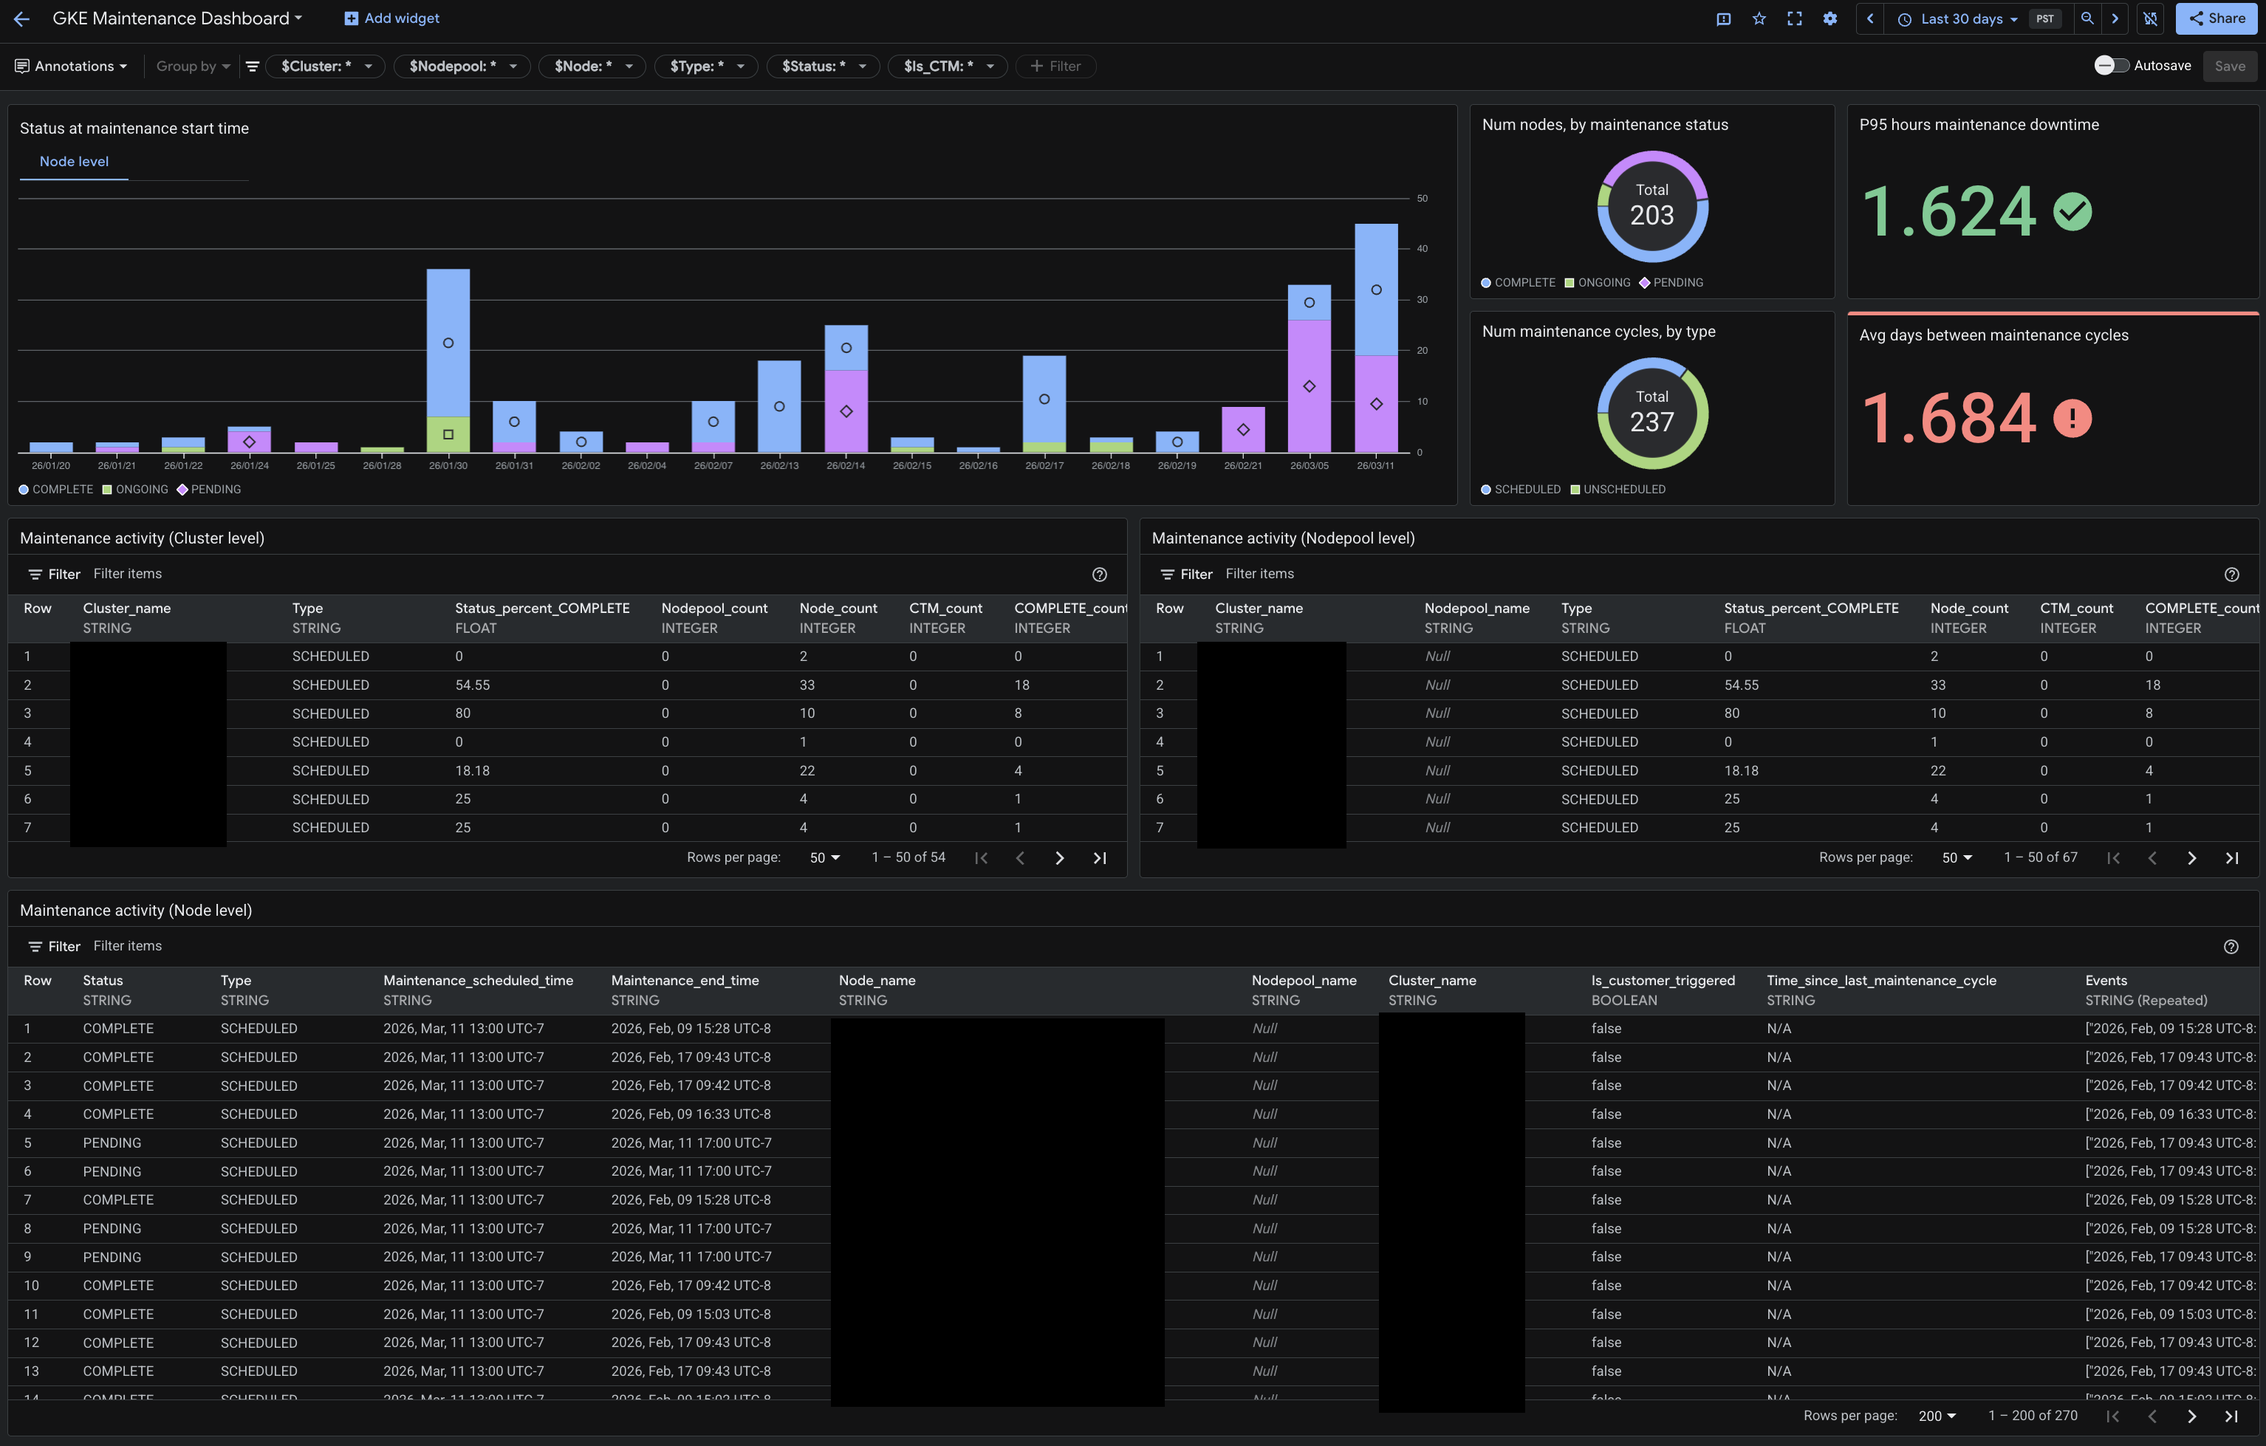
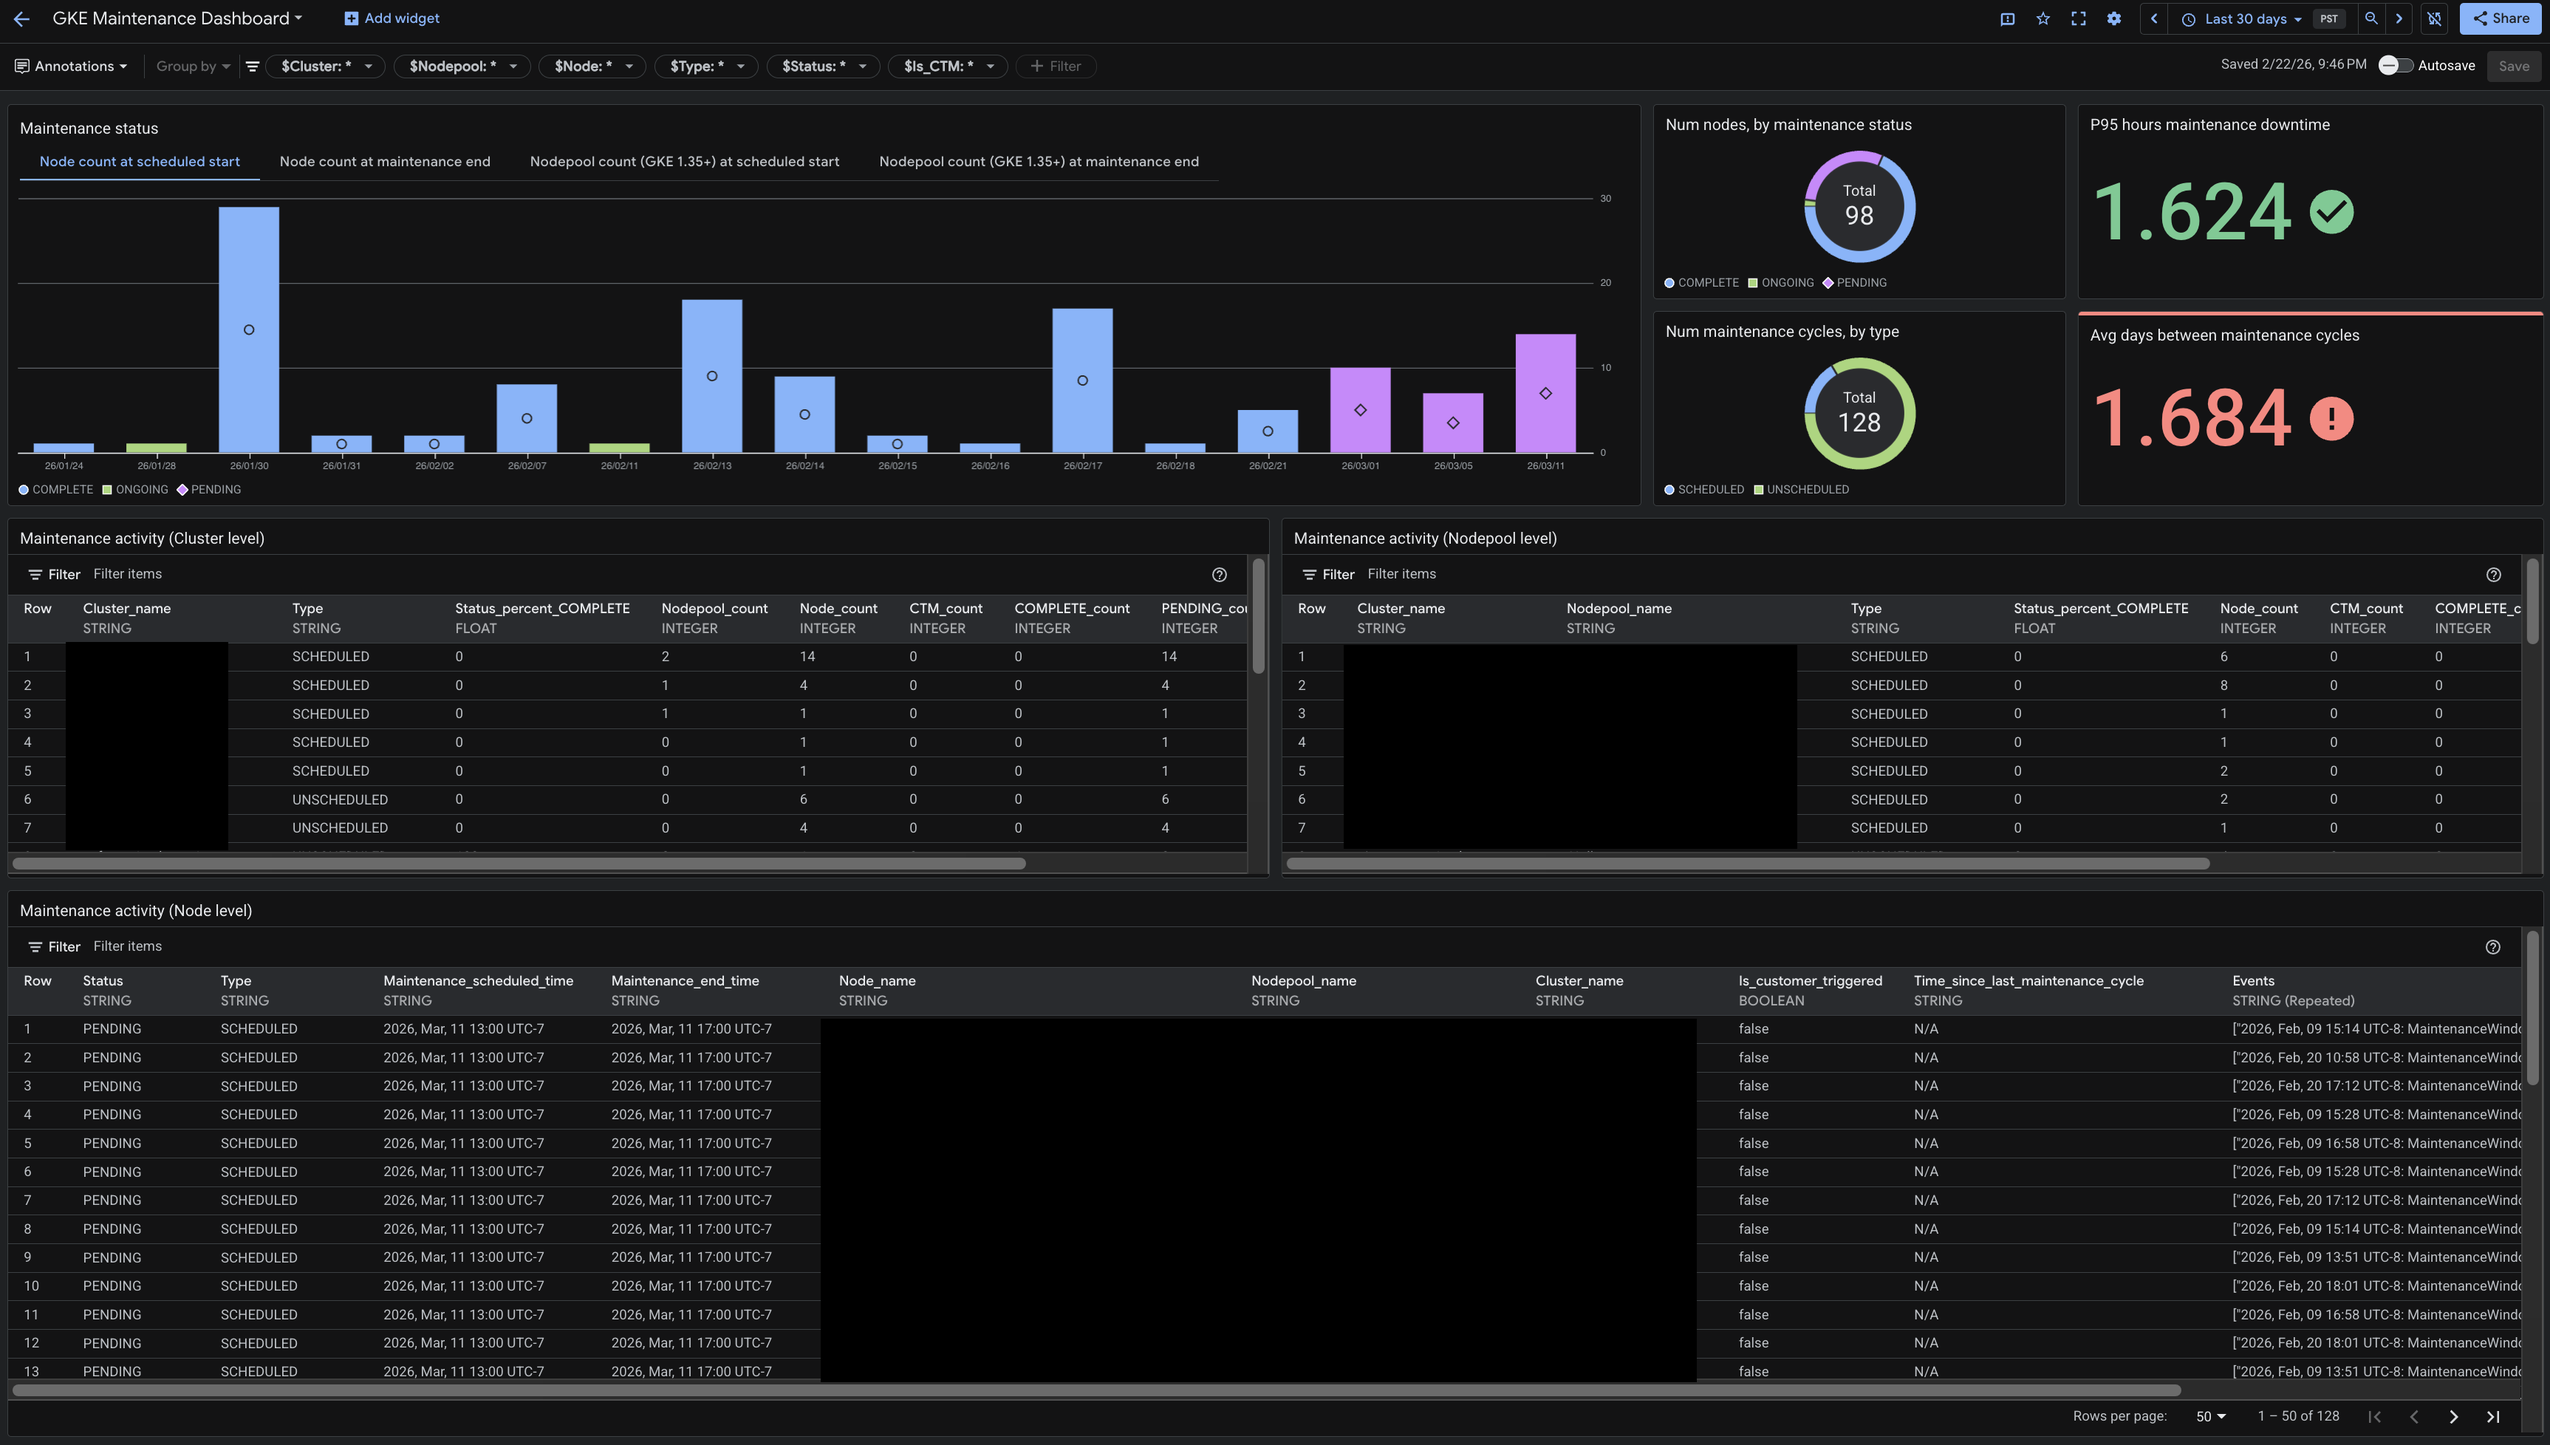
Update observability analytics, dashboard, and log sink query to filter out deleted nodes

diff --git a/dashboards/google-kubernetes-engine-ai/README.md b/dashboards/google-kubernetes-engine-ai/README.md
@@ -34,27 +34,47 @@ Then apply the following filter to the sink to filter the correct logs:
 
 <summary><i>Log Sink Filter</i></summary>
 
-```
+```sql
 (
-    -- for OnHostMaintenanceTerminate
+    -- for recreating certain 1.35+ maintenance events needed for the context of a node's maintenance status
     resource.type="k8s_container"
+    log_id("stderr")
     resource.labels.container_name="maintenance-handler"
-    jsonPayload.message:"Handling maintenance event with state"
-) OR (
-    -- for maintenance window updates
-    resource.type="k8s_container"
-    sourceLocation.file="gceTerminationHandler.go"
-    jsonPayload.message=~"Handling scheduled maintenance event with state:"
-) OR (
-    -- for all other events not tied to maintenance window (excluding deprecated <1.35 events)
-    jsonPayload.kind="Event"
-    jsonPayload.source.component="NodeTerminationHandler"
-    -jsonPayload.reason="NodeMaintenanceScheduled"
-    -jsonPayload.reason="MaintenanceStarted"
-    -jsonPayload.reason="NoPendingMaintenance"
+    (
+        -- for OnHostMaintenanceTerminate
+        jsonPayload.message=~"Handling maintenance event with state"
+        -jsonPayload.message="Handling maintenance event with state: \"NONE\""
+    )
+    OR 
+    (
+        -- for maintenance window updates
+        jsonPayload.message=~"Handling scheduled maintenance event with state:"
+        -jsonPayload.message="Handling scheduled maintenance event with state: \"\\\"NONE\\\"\""
+    )
 )
--jsonPayload.message="Handling scheduled maintenance event with state: \"\\\"NONE\\\"\""
--jsonPayload.message="Handling maintenance event with state: \"NONE\""
+OR 
+(
+    -- for maintenance events emitted at the node-level
+    resource.type="k8s_node"
+    log_id("events")
+    (
+        -- for information on deleted nodes, which are excluded from dashboard
+        jsonPayload.reportingComponent="cloud-node-lifecycle-controller"
+        jsonPayload.reason="DeletingNode"
+    )
+    OR
+    (
+        -- for information on recreated nodes, which can indicate the return of a deleted node that needed maintenance
+        jsonPayload.reportingComponent="node-controller"
+        jsonPayload.reason="RegisteredNode"
+    )
+    OR
+    (
+        -- for all other maintenance handler events (excluding deprecated <1.35 events)
+        jsonPayload.source.component="NodeTerminationHandler"
+        -jsonPayload.reason=("NodeMaintenanceScheduled" OR "MaintenanceStarted" OR "NoPendingMaintenance")
+    )
+)
 ```
 
 </details>
@@ -82,12 +102,12 @@ WITH RawLogs AS (
   FROM
     `@__project_id.global._Default._Default`
   WHERE
-    -- resource.type is usually a STRING, but JSON_VALUE(resource.labels.container_name) is required
     resource.type = 'k8s_container' 
     AND JSON_VALUE(resource.labels.container_name) = 'maintenance-handler'
     AND (
-      JSON_VALUE(json_payload.message) LIKE 'Handling scheduled maintenance event with state:%'
-      OR JSON_VALUE(json_payload.message) LIKE 'Handling maintenance event with state:%'
+      (JSON_VALUE(json_payload.message) LIKE 'Handling scheduled maintenance event with state:%' AND JSON_VALUE(json_payload.message) NOT LIKE '%"NONE"%')
+      OR 
+      (JSON_VALUE(json_payload.message) LIKE 'Handling maintenance event with state:%' AND JSON_VALUE(json_payload.message) NOT LIKE '%"NONE"%')
     )
 ),
 
@@ -198,7 +218,7 @@ HandlerGeneratedEvents AS (
     ev IS NOT NULL
 ),
 
--- 6. Combine with standard Kubernetes events
+-- 6. Combine with standard Kubernetes events (Filtering by Component)
 KubernetesEvents AS (
   SELECT
     timestamp,
@@ -217,21 +237,32 @@ KubernetesEvents AS (
   WHERE
     resource.type = 'k8s_node'
     AND (
-      JSON_VALUE(json_payload.reason) = 'CustomerTriggeredMaintenance' OR
-      JSON_VALUE(json_payload.reason) = 'PodEvictionComplete'
+      JSON_VALUE(json_payload, '$.source.component') = 'NodeTerminationHandler'
+      OR JSON_VALUE(json_payload, '$.reportingComponent') = 'cloud-node-lifecycle-controller'
+      OR JSON_VALUE(json_payload, '$.reportingComponent') = 'node-controller'
+      OR JSON_VALUE(json_payload, '$.reason') IN ('CustomerTriggeredMaintenance', 'PodEvictionComplete')
     )
+    AND JSON_VALUE(json_payload, '$.reason') NOT IN ('NodeMaintenanceScheduled', 'MaintenanceStarted', 'NoPendingMaintenance')
 ),
 
--- 7. Normalize combined events
+-- 7. Normalize combined events and assign Precedence Ranks
 normalized_events AS (
   SELECT
     timestamp, node, reason, action, type, cluster, nodepool, zone, maintenance_start_time, maintenance_end_time,
     CASE
-     WHEN reason IN ('MaintenanceWindowScheduled', 'MaintenanceWindowRescheduled', 'CustomerTriggeredMaintenance') THEN 'PENDING' 
-     WHEN reason IN ('MaintenanceWindowStarted', 'TerminateOnHostMaintenance') THEN 'ONGOING' 
-     WHEN reason IN ('MaintenanceWindowCleared', 'MaintenanceWindowCancelled') THEN 'COMPLETE'
-     ELSE 'UNKNOWN'
-    END AS status
+      WHEN reason IN ('MaintenanceWindowCleared', 'MaintenanceWindowCancelled') THEN 'COMPLETE'
+      WHEN reason IN ('DeletingNode') THEN 'DELETED'
+      WHEN reason IN ('MaintenanceWindowStarted', 'TerminateOnHostMaintenance') THEN 'ONGOING' 
+      WHEN reason IN ('MaintenanceWindowScheduled', 'MaintenanceWindowRescheduled') THEN 'PENDING' 
+      ELSE 'UNKNOWN'
+    END AS status,
+    CASE
+      WHEN reason IN ('MaintenanceWindowCleared', 'MaintenanceWindowCancelled') THEN 1
+      WHEN reason IN ('DeletingNode') THEN 2
+      WHEN reason IN ('MaintenanceWindowStarted', 'TerminateOnHostMaintenance') THEN 3
+      WHEN reason IN ('MaintenanceWindowScheduled', 'MaintenanceWindowRescheduled') THEN 4
+      ELSE 5
+    END AS status_rank
   FROM (
     SELECT * FROM HandlerGeneratedEvents
     UNION ALL
@@ -239,17 +270,21 @@ normalized_events AS (
   )
 ),
 
--- 8. Identify cycle boundaries and assign counts
+-- 8. Identify cycle boundaries and assign counts safely ignoring UNKNOWNs
 flagged_cycles AS (
   SELECT
     *,
     CASE
       WHEN status IN ('PENDING', 'ONGOING')
-           AND LAG(status, 1, 'COMPLETE') OVER (PARTITION BY node ORDER BY timestamp) NOT IN ('PENDING', 'ONGOING')
+           AND COALESCE(
+                 -- skip over UNKNOWN rows and fetch the most recent valid status
+                 LAST_VALUE(CASE WHEN status != 'UNKNOWN' THEN status END IGNORE NULLS) 
+                   OVER (PARTITION BY node ORDER BY timestamp ROWS BETWEEN UNBOUNDED PRECEDING AND 1 PRECEDING), 
+                 'COMPLETE'
+               ) NOT IN ('PENDING', 'ONGOING')
       THEN 1 ELSE 0
     END AS is_new_cycle
   FROM normalized_events
-  WHERE status != 'UNKNOWN' and reason != 'PodEvictionComplete'
 ),
 
 events_with_counts AS (
@@ -263,7 +298,7 @@ distinct_events_ranked AS (
   SELECT
     e.cycle_count AS CycleCount, e.timestamp AS EventTime, e.reason AS Reason, e.action AS Action,
     e.type AS Type, e.maintenance_start_time AS MaintenanceStartTime, e.maintenance_end_time AS MaintenanceEndTime,
-    e.cluster AS Cluster, e.nodepool AS Nodepool, e.node AS Node, e.status AS Status, e.zone AS Zone,
+    e.cluster AS Cluster, e.nodepool AS Nodepool, e.node AS Node, e.status AS Status, e.status_rank, e.zone AS Zone,
     ROW_NUMBER() OVER (PARTITION BY e.node, e.cycle_count, e.reason ORDER BY e.timestamp DESC) AS row_num
   FROM events_with_counts e
 ),
@@ -288,30 +323,32 @@ FROM (
     Node,
     Cluster,
     Nodepool,
-    ARRAY_AGG(Type ORDER BY EventTime DESC LIMIT 1)[OFFSET(0)] AS Type,
-    ARRAY_AGG(MaintenanceStartTime ORDER BY EventTime DESC LIMIT 1)[OFFSET(0)] AS MaintenanceStartTime,
     
-    -- FIX: Use EventTime ONLY if status is COMPLETE. Otherwise, use Metadata End Time.
+    -- FIX: Ignore NULLs so trailing K8s events without metadata don't wipe out the cycle's state
+    ARRAY_AGG(Type IGNORE NULLS ORDER BY EventTime DESC LIMIT 1)[OFFSET(0)] AS Type,
+    ARRAY_AGG(MaintenanceStartTime IGNORE NULLS ORDER BY EventTime DESC LIMIT 1)[OFFSET(0)] AS MaintenanceStartTime,
+    
     CASE 
-      WHEN ARRAY_AGG(Status ORDER BY EventTime DESC LIMIT 1)[OFFSET(0)] = 'COMPLETE' 
-      THEN MAX(EventTime) 
-      ELSE ARRAY_AGG(MaintenanceEndTime ORDER BY EventTime DESC LIMIT 1)[OFFSET(0)]
+      WHEN ARRAY_AGG(Status ORDER BY status_rank ASC, EventTime DESC LIMIT 1)[OFFSET(0)] = 'COMPLETE' 
+      THEN ARRAY_AGG(EventTime ORDER BY status_rank ASC, EventTime DESC LIMIT 1)[OFFSET(0)]
+      ELSE ARRAY_AGG(MaintenanceEndTime IGNORE NULLS ORDER BY EventTime DESC LIMIT 1)[OFFSET(0)]
     END AS MaintenanceEndTime,
 
     ARRAY_AGG(STRUCT(EventTime, Reason, Type) ORDER BY EventTime ASC) AS Events,
-    ARRAY_AGG(Status ORDER BY EventTime DESC LIMIT 1)[OFFSET(0)] AS Status,
+    
+    ARRAY_AGG(Status ORDER BY status_rank ASC, EventTime DESC LIMIT 1)[OFFSET(0)] AS Status,
     LOGICAL_OR(Reason = 'CustomerTriggeredMaintenance') AS Is_CTM,
     
     -- VALID CYCLE DEFINITION
     (
-      ARRAY_AGG(Status ORDER BY EventTime DESC LIMIT 1)[OFFSET(0)] = 'COMPLETE' AND 
-      MAX(EventTime) >= ARRAY_AGG(MaintenanceStartTime ORDER BY EventTime DESC LIMIT 1)[OFFSET(0)]
+      ARRAY_AGG(Status ORDER BY status_rank ASC, EventTime DESC LIMIT 1)[OFFSET(0)] = 'COMPLETE' AND 
+      MAX(EventTime) >= ARRAY_AGG(MaintenanceStartTime IGNORE NULLS ORDER BY EventTime DESC LIMIT 1)[OFFSET(0)]
     ) AS is_valid_cycle,
 
     -- Get the EndTime of the most recent valid cycle
     LAG(CASE 
-          WHEN ARRAY_AGG(Status ORDER BY EventTime DESC LIMIT 1)[OFFSET(0)] = 'COMPLETE' AND 
-               MAX(EventTime) >= ARRAY_AGG(MaintenanceStartTime ORDER BY EventTime DESC LIMIT 1)[OFFSET(0)]
+          WHEN ARRAY_AGG(Status ORDER BY status_rank ASC, EventTime DESC LIMIT 1)[OFFSET(0)] = 'COMPLETE' AND 
+               MAX(EventTime) >= ARRAY_AGG(MaintenanceStartTime IGNORE NULLS ORDER BY EventTime DESC LIMIT 1)[OFFSET(0)]
           THEN MAX(EventTime) 
         END) OVER (PARTITION BY Node ORDER BY CycleCount) AS prev_valid_end_time
 
@@ -320,7 +357,8 @@ FROM (
   GROUP BY
     CycleCount, Cluster, Nodepool, Node
 )
-
+WHERE Status NOT IN ('DELETED', 'UNKNOWN')
+ORDER BY MaintenanceEndTime
 ```
 
 </details>
